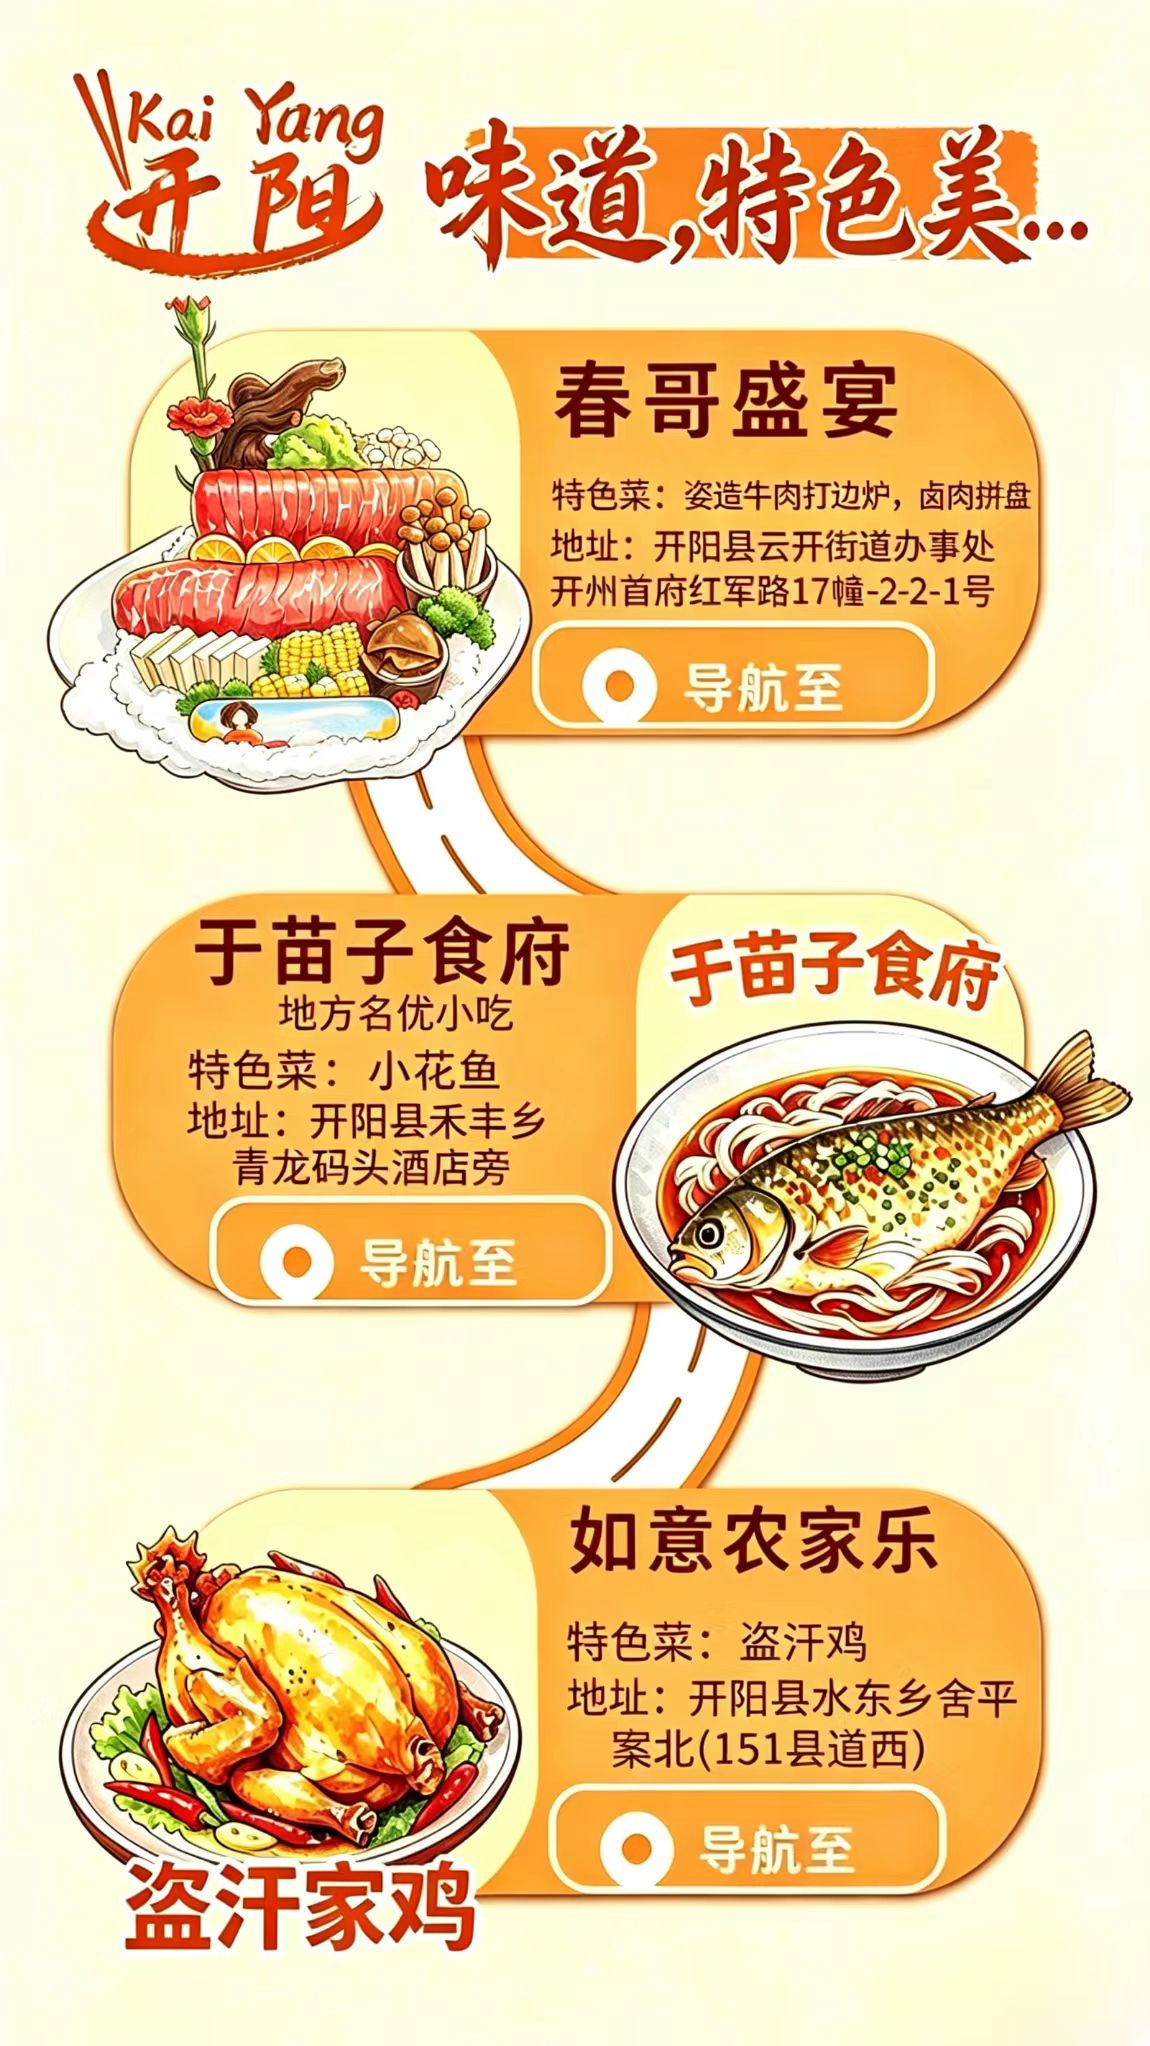
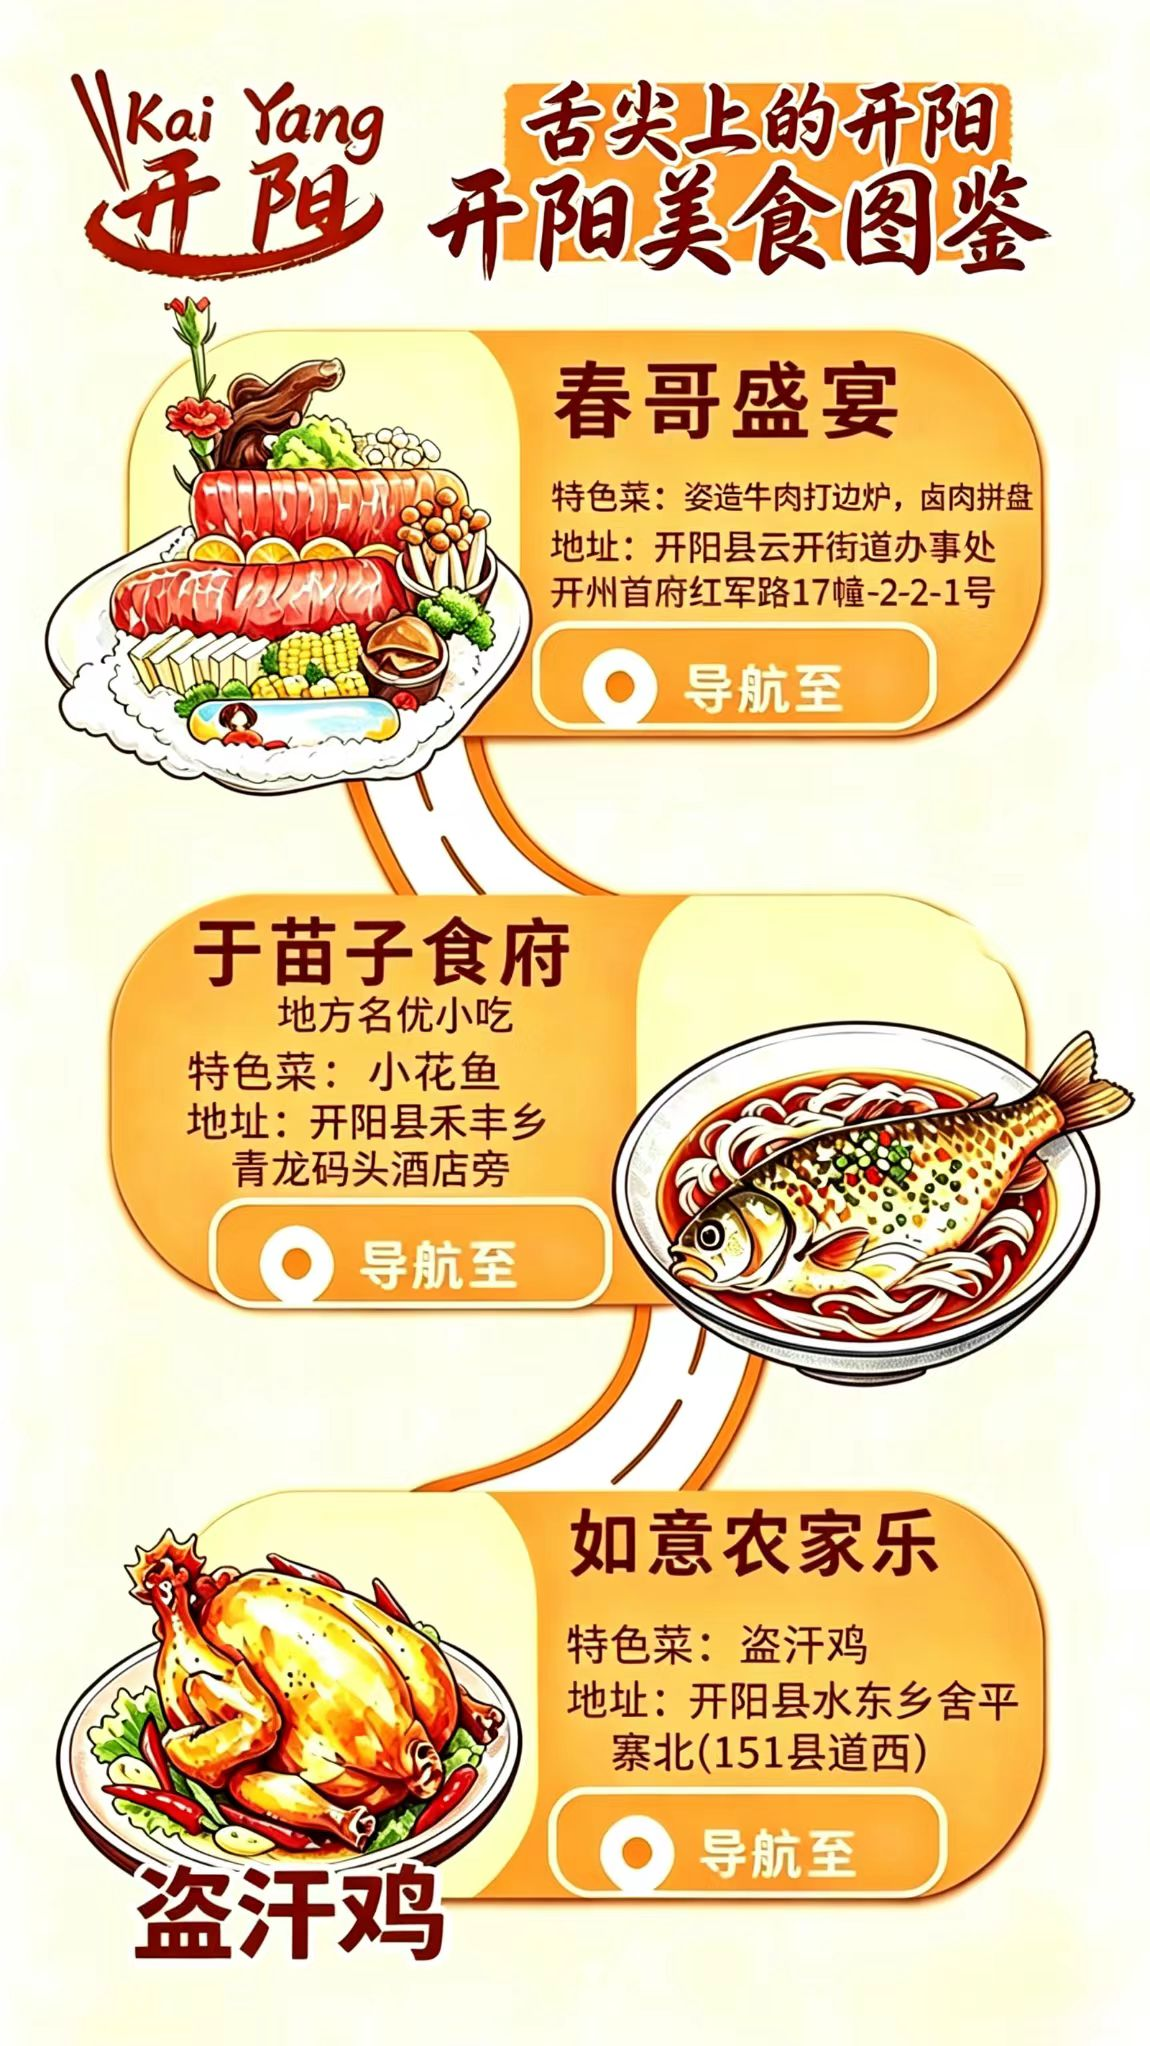
Refresh poster pages 1-6 with latest images.

Changed region(s): [[0.0304, 0.0308, 1.0, 0.9853], [0.0913, 0.4619, 0.1522, 0.6158], [0.0304, 0.3079, 0.0609, 0.3387]]

diff --git a/js/shops.js b/js/shops.js
@@ -226,8 +226,8 @@ window.KAIYANG_FOOD_MAP = {
    */
   posterPages: [
     {
-      image: "assets/images/pages/01.jpg?v=0930d",
-      bgImage: "assets/images/pages/01-bg.jpg?v=0930d",
+      image: "assets/images/pages/01.jpg?v=0930e",
+      bgImage: "assets/images/pages/01-bg.jpg?v=0930e",
       staticPieces: [],
       titlePieces: [
         { left: 6, top: 2.6, width: 88, height: 17.6, delay: 0 },
@@ -256,8 +256,8 @@ window.KAIYANG_FOOD_MAP = {
       cardPieces: []
     },
     {
-      image: "assets/images/pages/02.jpg?v=0930d",
-      bgImage: "assets/images/pages/02-bg.jpg?v=0930d",
+      image: "assets/images/pages/02.jpg?v=0930e",
+      bgImage: "assets/images/pages/02-bg.jpg?v=0930e",
       hotspots: [
         { shopId: 1, left: 48, top: 33.2, width: 42, height: 7 },
         { shopId: 2, left: 7, top: 58.8, width: 40, height: 7 },
@@ -273,8 +273,8 @@ window.KAIYANG_FOOD_MAP = {
       ]
     },
     {
-      image: "assets/images/pages/03.jpg?v=0930d",
-      bgImage: "assets/images/pages/03-bg.jpg?v=0930d",
+      image: "assets/images/pages/03.jpg?v=0930e",
+      bgImage: "assets/images/pages/03-bg.jpg?v=0930e",
       hotspots: [
         { shopId: 4, left: 48, top: 31.2, width: 42, height: 7 },
         { shopId: 5, left: 7, top: 56.8, width: 40, height: 7 },
@@ -290,8 +290,8 @@ window.KAIYANG_FOOD_MAP = {
       ]
     },
     {
-      image: "assets/images/pages/04.jpg?v=0930d",
-      bgImage: "assets/images/pages/04-bg.jpg?v=0930d",
+      image: "assets/images/pages/04.jpg?v=0930e",
+      bgImage: "assets/images/pages/04-bg.jpg?v=0930e",
       hotspots: [
         { shopId: 7, left: 47, top: 26.2, width: 43, height: 7 },
         { shopId: 8, left: 7, top: 56.2, width: 40, height: 7.2 },
@@ -307,8 +307,8 @@ window.KAIYANG_FOOD_MAP = {
       ]
     },
     {
-      image: "assets/images/pages/05.jpg?v=0930d",
-      bgImage: "assets/images/pages/05-bg.jpg?v=0930d",
+      image: "assets/images/pages/05.jpg?v=0930e",
+      bgImage: "assets/images/pages/05-bg.jpg?v=0930e",
       hotspots: [
         { shopId: 10, left: 50, top: 26.5, width: 42, height: 7.5 },
         { shopId: 11, left: 50, top: 54.2, width: 42, height: 7.5 },
@@ -324,8 +324,8 @@ window.KAIYANG_FOOD_MAP = {
       ]
     },
     {
-      image: "assets/images/pages/06.jpg?v=0930d",
-      bgImage: "assets/images/pages/06-bg.jpg?v=0930d",
+      image: "assets/images/pages/06.jpg?v=0930e",
+      bgImage: "assets/images/pages/06-bg.jpg?v=0930e",
       hotspots: [
         { shopId: 13, left: 48, top: 28.5, width: 42, height: 7.2 },
         { shopId: 14, left: 7, top: 55.8, width: 40, height: 7.2 },
@@ -341,8 +341,8 @@ window.KAIYANG_FOOD_MAP = {
       ]
     },
     {
-      image: "assets/images/pages/07.jpg?v=0930d",
-      bgImage: "assets/images/pages/07-bg.jpg?v=0930d",
+      image: "assets/images/pages/07.jpg?v=0930e",
+      bgImage: "assets/images/pages/07-bg.jpg?v=0930e",
       hotspots: [
         { shopId: 16, left: 48, top: 28.2, width: 42, height: 7.2 },
         { shopId: 17, left: 7, top: 55.5, width: 40, height: 7.2 },

diff --git a/h5.html b/h5.html
@@ -19,7 +19,7 @@
   <meta property="og:image:width" content="500" />
   <meta property="og:image:height" content="500" />
   <link rel="image_src" href="https://kai-yang-mei-shi.onrender.com/assets/images/share-thumb.jpg" />
-  <link rel="stylesheet" href="css/h5.css?v=pop6" />
+  <link rel="stylesheet" href="css/h5.css?v=pop7" />
 </head>
 <body>
   <div class="h5-root">
@@ -37,8 +37,8 @@
       <span>上滑继续</span>
     </div>
   </div>
-  <script src="js/shops.js?v=pop6"></script>
+  <script src="js/shops.js?v=pop7"></script>
   <script src="js/share.js"></script>
-  <script src="js/h5.js?v=pop6"></script>
+  <script src="js/h5.js?v=pop7"></script>
 </body>
 </html>

diff --git a/index.html b/index.html
@@ -31,7 +31,7 @@
       <span id="dateText">贵州</span>
     </p>
     <a class="wx-cover-link" href="h5.html" id="coverLink">
-      <img id="heroImage" src="assets/images/article-cover.jpg?v=0930d" alt="开阳特色美食图鉴封面" />
+      <img id="heroImage" src="assets/images/article-cover.jpg?v=0930e" alt="开阳特色美食图鉴封面" />
     </a>
   </article>
   <script src="js/shops.js"></script>
